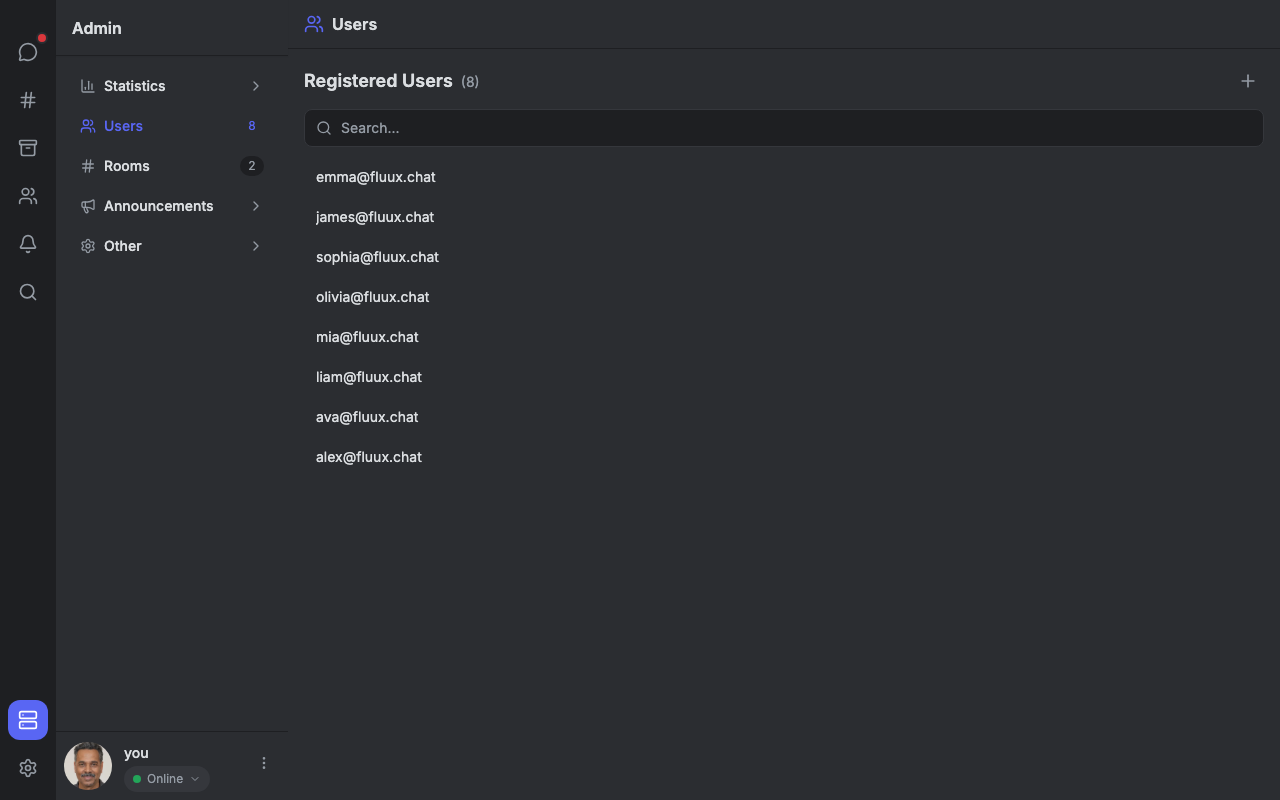
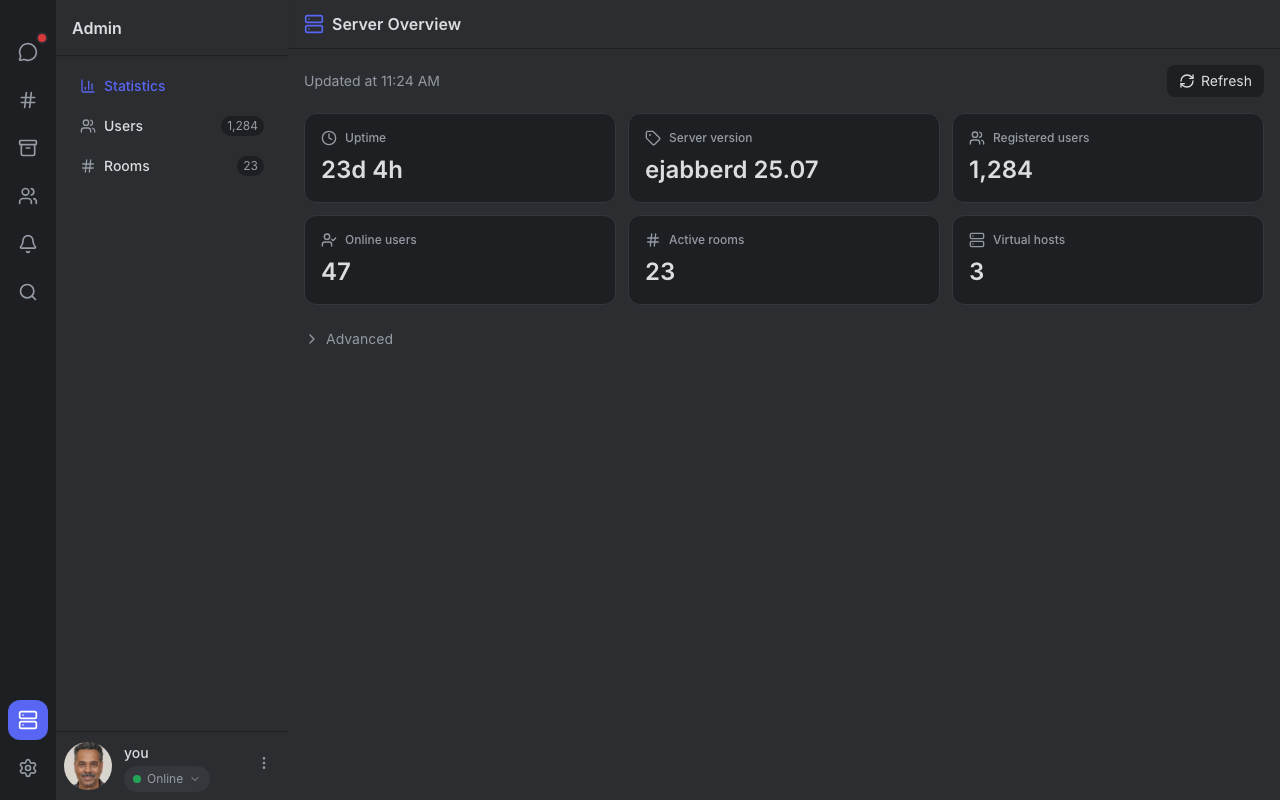
docs(screenshots): capture new admin Server Overview (07-admin-dark)

diff --git a/scripts/screenshots.ts b/scripts/screenshots.ts
@@ -153,36 +153,45 @@ test('06 — Code Block (dark)', async ({ page }) => {
   await capture(page, '06-code-block-dark')
 })
 
-test('07 — Admin User List (dark)', async ({ page }) => {
+test('07 — Admin Server Overview (dark)', async ({ page }) => {
   await waitForDemoReady(page)
-  await navigateTo(page, 'admin')
-  // Click the Users category to show the user list
-  await page.getByText('Users').first().click()
-  await page.waitForTimeout(500)
-  // In demo mode fetchUsers() has no real server, so re-seed the user list data
+
+  // Vital-signs values shown on the overview cards. Defined once and re-applied
+  // after the view mounts (the overview's mount fetch would otherwise overwrite
+  // them with the raw DemoClient seed values).
+  const SERVER_STATS = {
+    registeredUsers: 1284,
+    onlineUsers: 47,
+    onlineRooms: 23,
+    uptimeSeconds: 2001600, // 23d 4h
+    version: 'ejabberd 25.07',
+    vhostCount: 3,
+    fetchedAt: Date.UTC(2026, 5, 20, 9, 24), // fixed → stable "updated at" time
+  }
+
+  // Ensure admin access + a stats category so the overview is reachable.
   await page.evaluate(() => {
     const adminStore = (window as any).__adminStore
-    if (adminStore) {
-      adminStore.getState().setUserList({
-        items: [
-          { jid: '[email redacted]', username: 'emma', isOnline: true },
-          { jid: '[email redacted]', username: 'james', isOnline: true },
-          { jid: '[email redacted]', username: 'sophia', isOnline: true },
-          { jid: '[email redacted]', username: 'olivia', isOnline: true },
-          { jid: '[email redacted]', username: 'mia', isOnline: false },
-          { jid: '[email redacted]', username: 'liam', isOnline: true },
-          { jid: '[email redacted]', username: 'ava', isOnline: true },
-          { jid: '[email redacted]', username: 'alex', isOnline: false },
-        ],
-        isLoading: false,
-        error: null,
-        searchQuery: '',
-        hasFetched: true,
-        pagination: { count: 8 },
-      })
-    }
+    if (!adminStore) return
+    const s = adminStore.getState()
+    s.setIsAdmin(true)
+    s.setCommands([
+      { node: 'http://jabber.org/protocol/admin#get-registered-users-num', name: 'Get registered users number', category: 'stats' },
+      { node: 'http://jabber.org/protocol/admin#get-online-users-num', name: 'Get online users number', category: 'stats' },
+      { node: 'api-commands/stats', name: 'Stats', category: 'stats' },
+    ])
   })
-  await page.waitForTimeout(500)
+
+  await navigateTo(page, 'admin')
+  // Open the Server Overview (Statistics category)
+  await page.getByText('Statistics').first().click()
+  // Let the overview mount and its initial fetch settle before we seed final values
+  await page.waitForTimeout(800)
+  await page.evaluate((stats) => {
+    const adminStore = (window as any).__adminStore
+    if (adminStore) adminStore.getState().setServerStats(stats)
+  }, SERVER_STATS)
+  await page.waitForTimeout(400)
   await capture(page, '07-admin-dark')
 })
 

diff --git a/screenshots/OVERVIEW.md b/screenshots/OVERVIEW.md
@@ -37,10 +37,10 @@ All screenshots are generated automatically from the [demo mode](../docs/DEMO_MO
 
 ## Administration
 
-| Admin Panel                                                                                      |
-|--------------------------------------------------------------------------------------------------|
-| <a href="./07-admin-dark.png"><img src="./07-admin-dark.png" width="400" alt="Admin Panel"/></a> |
-| *Manage users, rooms, and server commands from the client*                                       |
+| Server Overview                                                                                       |
+|-------------------------------------------------------------------------------------------------------|
+| <a href="./07-admin-dark.png"><img src="./07-admin-dark.png" width="400" alt="Server Overview"/></a>  |
+| *At-a-glance server vital signs (uptime, version, users, rooms) plus user/room management*            |
 
 ## Customization
 